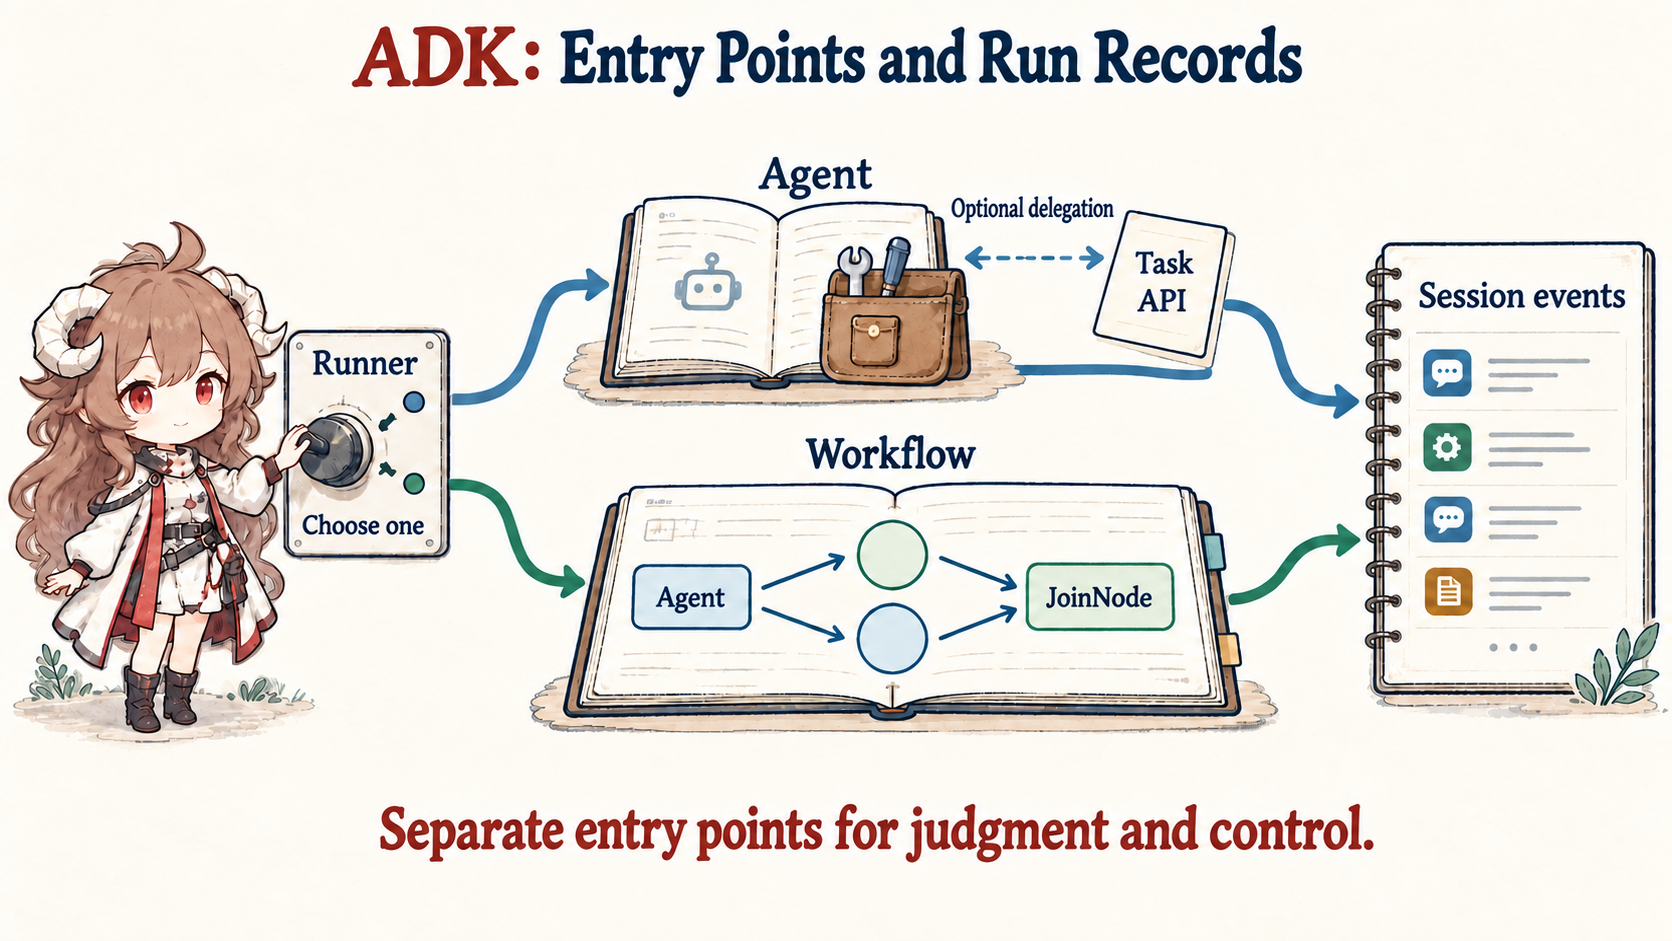
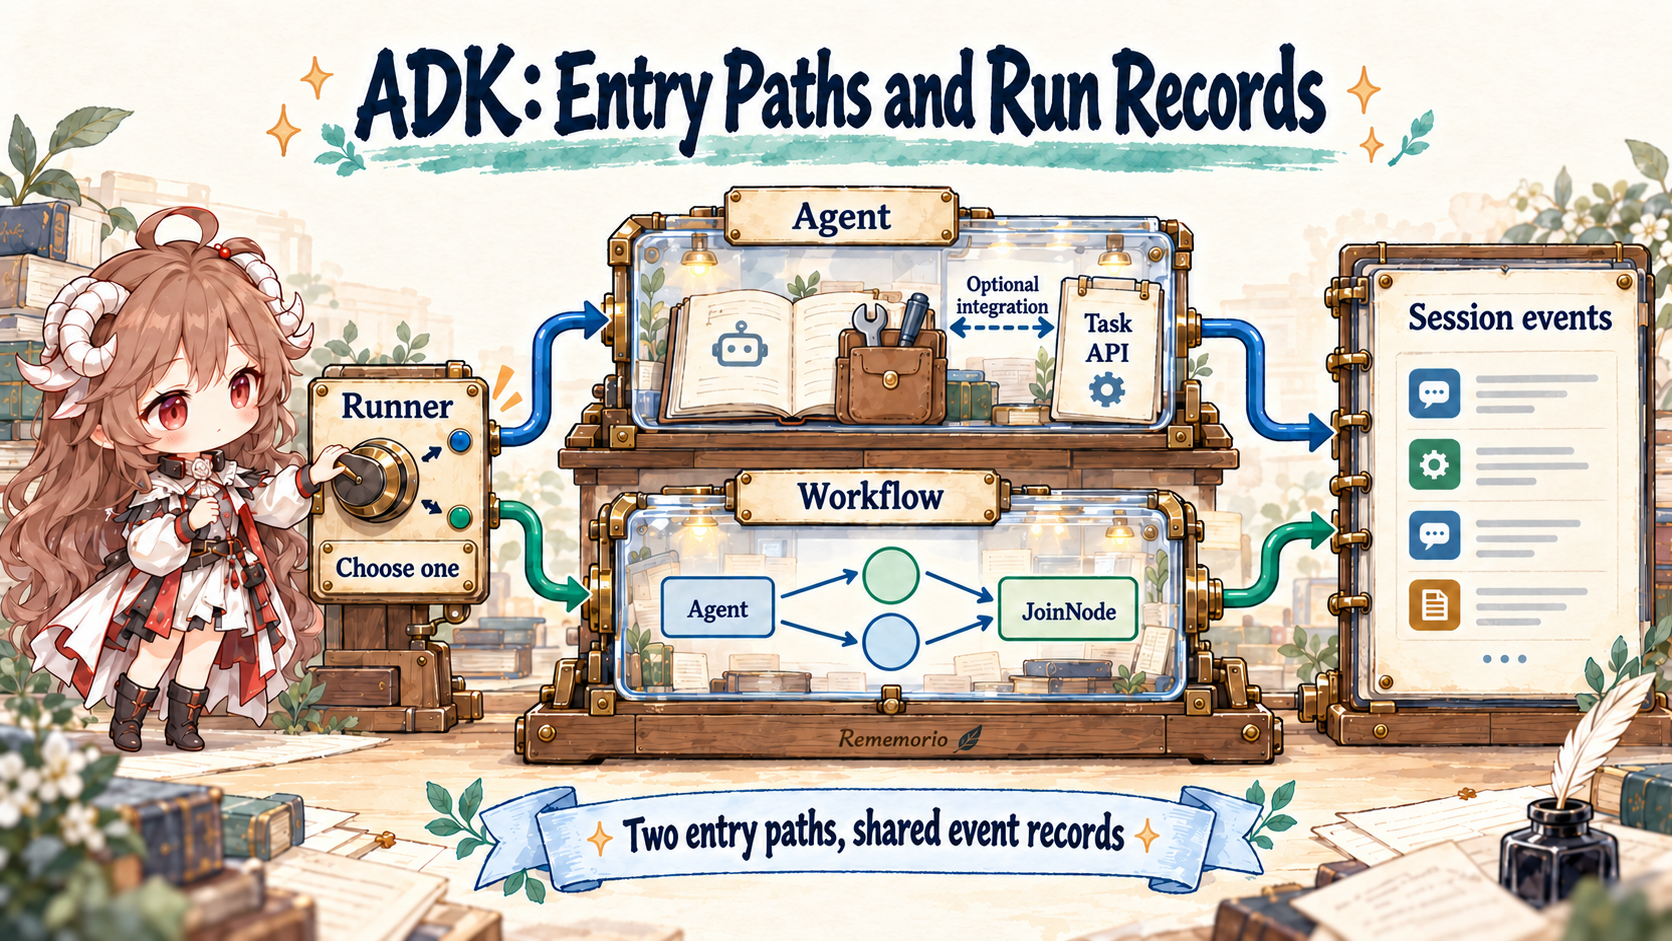
Redraw ADK runtime figures in the shared workshop style

diff --git a/agent-framework/zh/adk-runtime/index.html b/agent-framework/zh/adk-runtime/index.html
@@ -15,7 +15,7 @@
       content="ADK Python 2.0 的关键不只是 Agent 类，而是把 Agent autonomy 和 graph control 放进同一条 Runner/session event 执行线。"
     />
     <meta property="og:type" content="article" />
-    <meta property="og:image" content="../assets/adk-runtime-overview.png" />
+    <meta property="og:image" content="../assets/adk-runtime-overview.png?v=20261023" />
     <link rel="canonical" href="https://rememorio.github.io/blog/agent-framework/zh/adk-runtime/" />
     <link rel="alternate" hreflang="zh-CN" href="https://rememorio.github.io/blog/agent-framework/zh/adk-runtime/" />
     <link rel="alternate" hreflang="en" href="https://rememorio.github.io/blog/agent-framework/en/adk-runtime/" />
@@ -121,7 +121,7 @@
             </div>
             <figure class="hero-image">
               <img
-                src="../assets/adk-runtime-overview.png"
+                src="../assets/adk-runtime-overview.png?v=20261023"
                 alt="Runner 选择 Agent 或 Workflow 入口；Workflow 内含 Agent 节点和并行汇合，两条入口产生会话事件"
               />
             </figure>

diff --git a/agent-framework/en/adk-runtime/index.html b/agent-framework/en/adk-runtime/index.html
@@ -15,7 +15,7 @@
       content="ADK Python 2.0 combines agent autonomy and graph control through Runner, session events, Workflow, and the Task API."
     />
     <meta property="og:type" content="article" />
-    <meta property="og:image" content="../assets/adk-runtime-overview.png" />
+    <meta property="og:image" content="../assets/adk-runtime-overview.png?v=20261023" />
     <link rel="canonical" href="https://rememorio.github.io/blog/agent-framework/en/adk-runtime/" />
     <link rel="alternate" hreflang="zh-CN" href="https://rememorio.github.io/blog/agent-framework/zh/adk-runtime/" />
     <link rel="alternate" hreflang="en" href="https://rememorio.github.io/blog/agent-framework/en/adk-runtime/" />
@@ -120,7 +120,7 @@
             </div>
             <figure class="hero-image">
               <img
-                src="../assets/adk-runtime-overview.png"
+                src="../assets/adk-runtime-overview.png?v=20261023"
                 alt="Runner selects Agent or Workflow; Workflow contains an Agent node and parallel join, and both entry paths produce session events"
               />
             </figure>

diff --git a/en/index.html b/en/index.html
@@ -528,7 +528,7 @@
         </a>
           <a class="post-card" href="../agent-framework/en/adk-runtime/">
           <span class="post-thumb" aria-hidden="true">
-            <img loading="lazy" decoding="async" width="1672" height="941" src="../agent-framework/en/assets/adk-runtime-overview.png" alt="Runner selects Agent or Workflow; Workflow contains an Agent node and parallel join, and both entry paths produce session events" />
+            <img loading="lazy" decoding="async" width="1672" height="941" src="../agent-framework/en/assets/adk-runtime-overview.png?v=20261023" alt="Runner selects Agent or Workflow; Workflow contains an Agent node and parallel join, and both entry paths produce session events" />
           </span>
           <span>
             <span class="tag">Agent Framework Source Notes · Part 8</span>

diff --git a/zh/index.html b/zh/index.html
@@ -527,7 +527,7 @@
         </a>
           <a class="post-card" href="../agent-framework/zh/adk-runtime/">
           <span class="post-thumb" aria-hidden="true">
-            <img loading="lazy" decoding="async" width="1672" height="941" src="../agent-framework/zh/assets/adk-runtime-overview.png" alt="Runner 选择 Agent 或 Workflow 入口；Workflow 内含 Agent 节点和并行汇合，两条入口产生会话事件" />
+            <img loading="lazy" decoding="async" width="1672" height="941" src="../agent-framework/zh/assets/adk-runtime-overview.png?v=20261023" alt="Runner 选择 Agent 或 Workflow 入口；Workflow 内含 Agent 节点和并行汇合，两条入口产生会话事件" />
           </span>
           <span>
             <span class="tag">Agent 框架源码阅读 · 第八篇</span>

diff --git a/agent-framework/en/index.html b/agent-framework/en/index.html
@@ -337,7 +337,7 @@
         </a>
         <a id="frameworks" class="post-card" href="./adk-runtime/">
           <span class="post-thumb" aria-hidden="true">
-            <img src="assets/adk-runtime-overview.png" alt="Runner selects Agent or Workflow; Workflow contains an Agent node and parallel join, and both entry paths produce session events" />
+            <img src="assets/adk-runtime-overview.png?v=20261023" alt="Runner selects Agent or Workflow; Workflow contains an Agent node and parallel join, and both entry paths produce session events" />
           </span>
           <span>
             <span class="tag">Source Notes · Part 8</span>

diff --git a/agent-framework/zh/index.html b/agent-framework/zh/index.html
@@ -337,7 +337,7 @@
         </a>
         <a id="frameworks" class="post-card" href="./adk-runtime/">
           <span class="post-thumb" aria-hidden="true">
-            <img src="assets/adk-runtime-overview.png" alt="Runner 选择 Agent 或 Workflow 入口；Workflow 内含 Agent 节点和并行汇合，两条入口产生会话事件" />
+            <img src="assets/adk-runtime-overview.png?v=20261023" alt="Runner 选择 Agent 或 Workflow 入口；Workflow 内含 Agent 节点和并行汇合，两条入口产生会话事件" />
           </span>
           <span>
             <span class="tag">源码阅读 · 第八篇</span>
